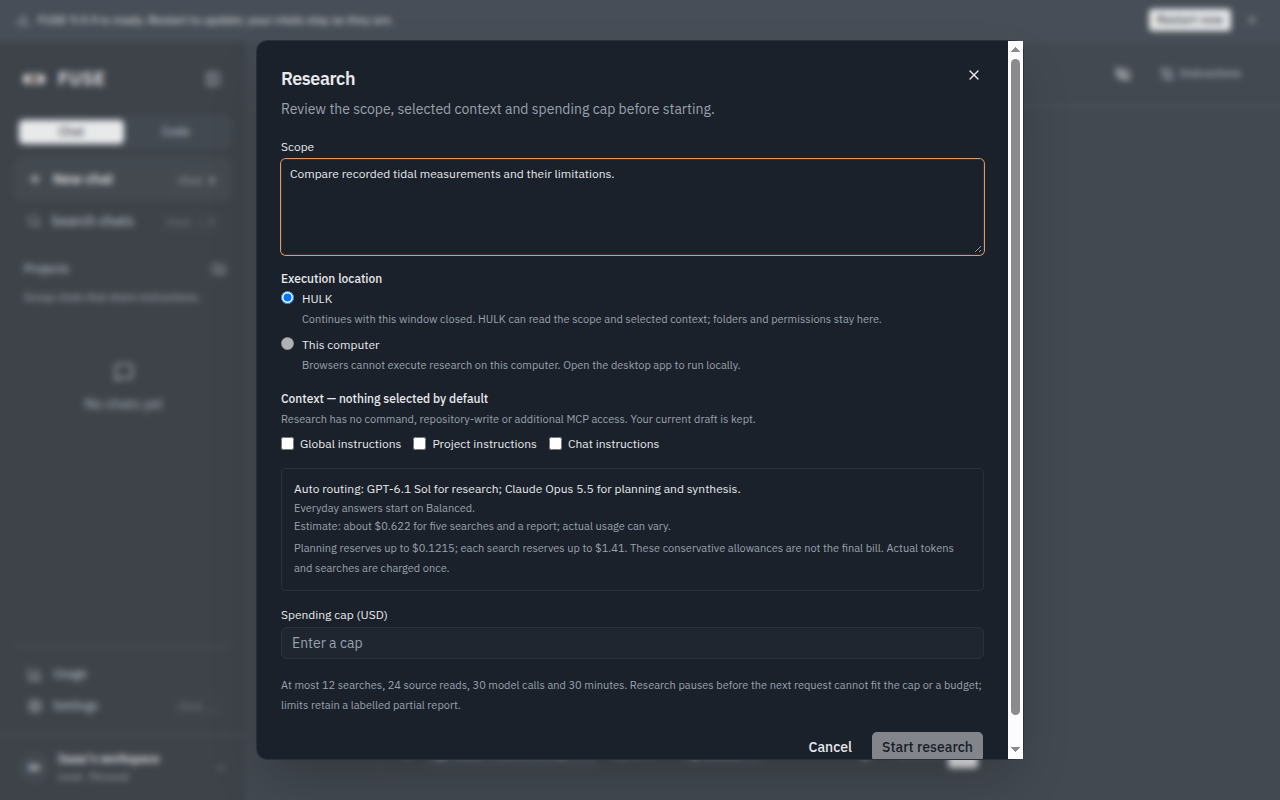
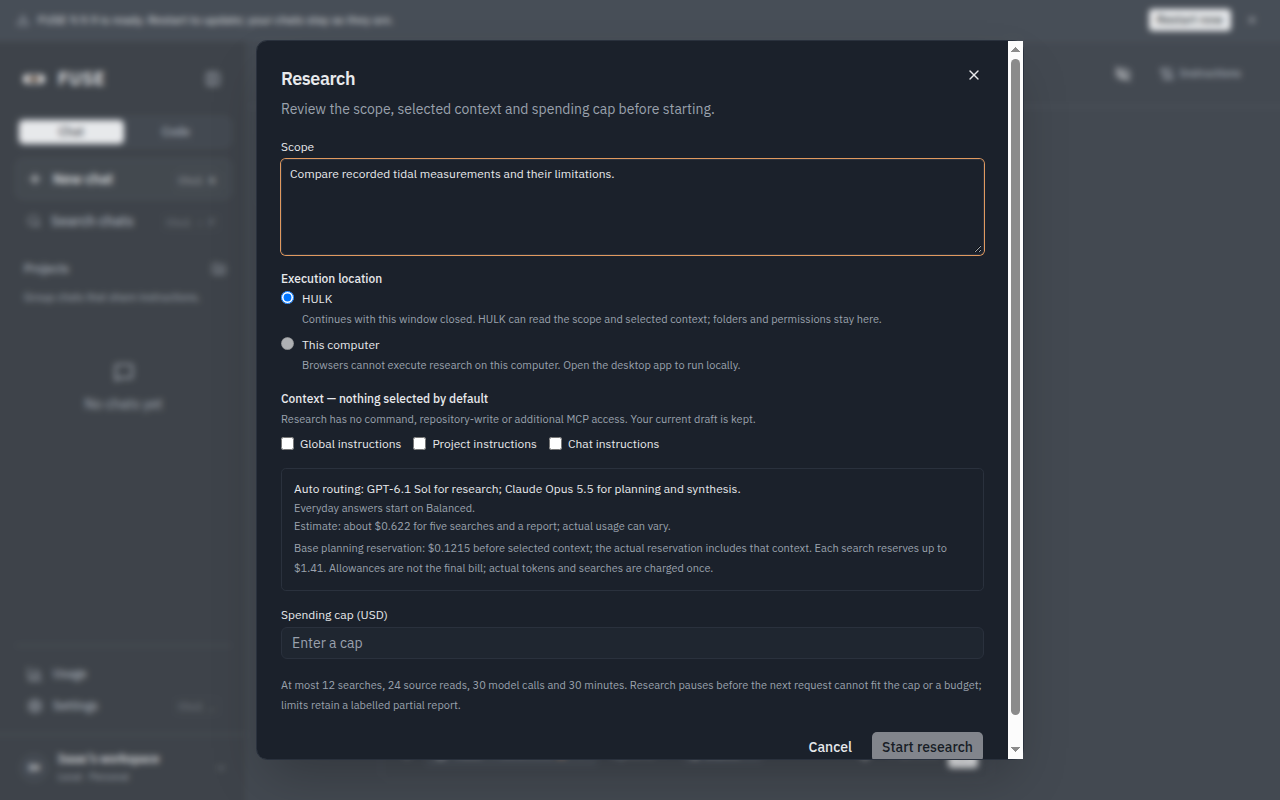
fix(research): validate owner previews and open history links

Changed region(s): [[0.2188, 0.6562, 0.75, 0.7188]]

diff --git a/src/research/useResearch.test.tsx b/src/research/useResearch.test.tsx
@@ -1,0 +1,93 @@
+import { cleanup, fireEvent, render, screen, within } from "@testing-library/react";
+import { defaultCatalog as catalog } from "@/catalog/defaultCatalog";
+import { defaultPolicy as policy } from "@/routing/defaultPolicy";
+import { openTestDb } from "@/storage/testing/nodeDb";
+import { DEFAULT_TENANT as tenant } from "@/storage/defaults";
+import { setEgressRule } from "@/storage/egress";
+import type { SqlValue } from "@/storage/sql";
+import type { HulkApi, HulkStatus } from "@/handover/api";
+import { useResearch } from "./useResearch";
+import { researchModels } from "./routing";
+
+afterEach(cleanup);
+test("HULK preview respects the execution owner's policy and prefers desktop when hosted search is unavailable", async () => {
+  const db = openTestDb(),
+    owner = openTestDb();
+  await setEgressRule(owner, tenant, null, "anthropic", false);
+  const status: HulkStatus = {
+    address: "https://hulk.example",
+    paired: true,
+    mismatch: null,
+    mine: { schema: 66, builtFrom: "fixture", builtOn: "2026-11-05", researchProtocol: 1 },
+    server: { schema: 66, builtFrom: "fixture", builtOn: "2026-11-05", researchProtocol: 1 },
+  };
+  const hulk: HulkApi = {
+    status: () => Promise.resolve(status),
+    pair: () => Promise.reject(new Error("Unused")),
+    unpair: () => Promise.reject(new Error("Unused")),
+    putFile: () => Promise.reject(new Error("Preview cannot upload files")),
+    async invoke<T>(command: string, args: Record<string, unknown> = {}) {
+      let value: unknown;
+      if (command === "key_status") value = { saved: true };
+      else if (command === "db_select" && typeof args.sql === "string")
+        value = await owner.select(args.sql, args.params as SqlValue[]);
+      else throw new Error("Preview cannot dispatch or mutate HULK");
+      return value as T;
+    },
+  };
+  const onError = vi.fn();
+  function Harness() {
+    const research = useResearch({
+      deps: {
+        db,
+        tenant,
+        catalog,
+        adapterFor: () => {
+          throw new Error("Preview cannot call a provider");
+        },
+      },
+      threadId: null,
+      projectId: null,
+      mode: { kind: "auto" },
+      policy,
+      providers: ["openai", "anthropic"],
+      hulk,
+      hulkStatus: status,
+      web: false,
+      incognito: false,
+      onChanged: vi.fn(),
+      onSelect: vi.fn(),
+      onError,
+    });
+    return (
+      <>
+        <button
+          onClick={() => {
+            research.open("Compare tide measurements");
+          }}
+        >
+          Open research
+        </button>
+        {research.dialogs}
+      </>
+    );
+  }
+  render(<Harness />);
+  fireEvent.click(screen.getByRole("button", { name: "Open research" }));
+  let dialog = within(await screen.findByRole("dialog", { name: "Research" }));
+  expect(dialog.getByRole("radio", { name: /^HULK/ })).toBeChecked();
+  const expected = researchModels(catalog, policy, { kind: "auto" }, "Compare tide measurements", [
+    "openai",
+  ]);
+  expect(dialog.getByText(/Auto routing:/)).toHaveTextContent(expected.best.displayName);
+  fireEvent.click(dialog.getByRole("button", { name: "Cancel" }));
+  await setEgressRule(owner, tenant, null, "anthropic", null);
+  await setEgressRule(owner, tenant, null, "openai", false);
+  fireEvent.click(screen.getByRole("button", { name: "Open research" }));
+  dialog = within(await screen.findByRole("dialog", { name: "Research" }));
+  expect(dialog.getByRole("radio", { name: /^HULK/ })).toBeDisabled();
+  expect(dialog.getByRole("radio", { name: /^This computer/ })).toBeChecked();
+  expect(await owner.select("SELECT id FROM run_requests")).toEqual([]);
+  expect(await owner.select("SELECT id FROM request_log")).toEqual([]);
+  expect(onError).not.toHaveBeenCalled();
+});

diff --git a/src/app/ChatApp.tsx b/src/app/ChatApp.tsx
@@ -855,6 +855,10 @@ export function ChatApp({
   // M10 step 12 (CH-19): Chat or Code; each area reopens on its own last thread.
   const [area, setArea] = useState<Area>(readArea);
   const [lastThread] = useState(() => readLastThread(readArea()));
+  // A HULK history link selects an existing Chat only; it cannot enqueue or resume execution.
+  const [linkedThread] = useState(() =>
+    webApp ? new URLSearchParams(window.location.search).get("thread") : null,
+  );
   // The path on screen (CH-04), every message in the thread, and where the path has siblings.
   const [messages, setMessages] = useState<Message[]>([]);
   const [threadAll, setThreadAll] = useState<Message[]>([]);
@@ -1680,8 +1684,10 @@ export function ChatApp({
       .then(async (list) => {
         setThreadList({ threads: list, at: Date.now() });
         setLatestRuns(await latestRunByThread(db, tenant));
-        // Reopen on the thread that was open last time, if it still exists.
-        const last = lastThread ? list.find((t) => t.id === lastThread) : undefined;
+        // An authenticated history link wins; an unavailable/deleted ID falls back safely.
+        const last =
+          (linkedThread ? list.find((t) => t.id === linkedThread) : undefined) ??
+          (lastThread ? list.find((t) => t.id === lastThread) : undefined);
         if (!last) return;
         const { rows, all, attached, cited, used, upto, fromFiles, artifacts } = await loadThread(
           last.id,
@@ -1691,8 +1697,8 @@ export function ChatApp({
         setArea(areaOf(last.kind));
         setThreadArtifacts(artifacts);
         setThreadFileSources(fromFiles);
-        setSelectedId(lastThread);
-        selectedRef.current = lastThread;
+        setSelectedId(last.id);
+        selectedRef.current = last.id;
         setMessages(rows);
         setSummaryUpto(upto);
         setThreadAll(all);
@@ -1702,7 +1708,7 @@ export function ChatApp({
         setThreadMemories(used);
       })
       .catch(report);
-  }, [db, tenant, catalog, lastThread, loadThread, appBuild, backups]);
+  }, [db, tenant, catalog, lastThread, linkedThread, loadThread, appBuild, backups]);
   useEffect(() => {
     if (selectedId === null) return;
     const kind = threads.find((t) => t.id === selectedId)?.kind;

diff --git a/src/ui/Research.test.tsx b/src/ui/Research.test.tsx
@@ -1,5 +1,5 @@
 import { fireEvent, render, screen } from "@testing-library/react";
-import { parseResearchCap } from "@/research/cap";
+import { parseResearchCap, formatResearchCap } from "@/research/cap";
 import { ResearchSetup, ContinueResearch } from "./Research";
 import { defaultCatalog } from "@/catalog/defaultCatalog";
 import { defaultPolicy } from "@/routing/defaultPolicy";
@@ -27,6 +27,9 @@ test("research setup requires an empty cap to be filled and starts only through 
   expect(screen.getByLabelText("Research spending cap (USD)")).toHaveValue("");
   expect(screen.getByRole("button", { name: "Start research" })).toBeDisabled();
   expect(screen.getByLabelText("Memory: chosen fact")).not.toBeChecked();
+  expect(screen.getByText(/Base planning reservation/)).toHaveTextContent(
+    "before selected context",
+  );
   expect(onStart).not.toHaveBeenCalled();
   fireEvent.click(screen.getByLabelText("Memory: chosen fact"));
   fireEvent.change(screen.getByLabelText("Research spending cap (USD)"), {
@@ -88,6 +91,10 @@ test("continuation uses an explicit total cap without adding a default increment
 test("caps preserve integer micro-dollars and reject empty, fractional-micro and excessive values", () => {
   expect(parseResearchCap("0.000001")).toBe(1);
   expect(parseResearchCap("9007199254.740991")).toBe(Number.MAX_SAFE_INTEGER);
+  expect(formatResearchCap(Number.MAX_SAFE_INTEGER)).toBe("9007199254.740991");
+  expect(parseResearchCap(formatResearchCap(Number.MAX_SAFE_INTEGER))).toBe(
+    Number.MAX_SAFE_INTEGER,
+  );
   for (const value of ["", "0", "0.0000001", "9007199254.740992", "1e4", "9".repeat(10000)])
     expect(parseResearchCap(value)).toBeNull();
 });

diff --git a/src/App.webRuns.test.tsx b/src/App.webRuns.test.tsx
@@ -128,6 +128,43 @@ beforeEach(() => {
 });
 afterEach(cleanup);
 
+test("a HULK research history link selects its existing Chat without starting or resuming execution", async () => {
+  const db = openTestDb();
+  const previous = await createThread(db, t, "Previous Chat"),
+    linked = await createThread(db, t, "Linked research Chat");
+  const messageId = await addMessage(db, t, {
+    threadId: linked.id,
+    parentId: null,
+    role: "assistant",
+    content: "Previously collected research evidence.",
+  });
+  const run = await createRun(db, t, {
+    threadId: linked.id,
+    projectId: null,
+    messageId,
+    task: "Existing research",
+    kind: "research",
+    provider: "openai",
+    model: "fixture",
+    mode: "plan",
+    capMicroUsd: 1000000,
+  });
+  await setRunStatus(db, t, run.id, "paused", "Explicit continuation required.");
+  localStorage.setItem("fuse.lastThread.chat", previous.id);
+  window.history.replaceState({}, "", `/?thread=${encodeURIComponent(linked.id)}`);
+  try {
+    start(db);
+    expect(await screen.findByText("Previously collected research evidence.")).toBeInTheDocument();
+    expect(await db.select("SELECT id FROM run_requests")).toEqual([]);
+    expect(await db.select("SELECT id FROM request_log")).toEqual([]);
+    expect(await db.select("SELECT status FROM runs WHERE id=?", [run.id])).toEqual([
+      { status: "paused" },
+    ]);
+  } finally {
+    window.history.replaceState({}, "", "/");
+  }
+});
+
 test("a Code run in the web app is asked of the runner; its question is answered here, and Stop asks it to stop", async () => {
   const db = openTestDb();
   const user = start(db);

diff --git a/src/ui/Research.tsx b/src/ui/Research.tsx
@@ -1,4 +1,4 @@
-import { parseResearchCap } from "@/research/cap";
+import { parseResearchCap, formatResearchCap } from "@/research/cap";
 import { useState } from "react";
 import { Button } from "@/components/ui/button";
 import { Input } from "@/components/ui/input";
@@ -191,9 +191,10 @@ export function ResearchSetup({
               actual usage can vary.
             </p>
             <p className="text-[11px] leading-5 text-muted-foreground">
-              Planning reserves up to {money(models.firstBoundMicroUsd)}; each search reserves up to{" "}
-              {money(models.searchBoundMicroUsd)}. These conservative allowances are not the final
-              bill. Actual tokens and searches are charged once.
+              Base planning reservation: {money(models.firstBoundMicroUsd)} before selected context;
+              the actual reservation includes that context. Each search reserves up to{" "}
+              {money(models.searchBoundMicroUsd)}. Allowances are not the final bill; actual tokens
+              and searches are charged once.
             </p>
           </div>
         )}
@@ -354,7 +355,7 @@ export function ContinueResearch({
   onCancel: () => void;
   onContinue: (capMicroUsd: number) => void;
 }) {
-  const [value, setValue] = useState(String(capMicroUsd / 1e6)),
+  const [value, setValue] = useState(formatResearchCap(capMicroUsd)),
     amount = parseResearchCap(value);
   return (
     <Modal

diff --git a/src/research/useResearch.tsx b/src/research/useResearch.tsx
@@ -315,11 +315,16 @@ export function useResearch(options: Options) {
           }
           if (!hulkReason) {
             const stored = await storedRouting(hulkDb(hulk), deps.tenant, projectId);
+            const ownerPolicy = await projectPolicy(hulkDb(hulk), deps.tenant, projectId);
             hulkCatalog = stored.catalog;
             hulkPolicy = stored.policy;
             for (const provider of ["openai", "anthropic"] as const) {
               const state = await hulk.invoke<{ saved: boolean }>("key_status", { provider });
-              if (state.saved && egressRefusal(policy, provider, "chat") === null)
+              if (
+                state.saved &&
+                egressRefusal(policy, provider, "chat") === null &&
+                egressRefusal(ownerPolicy, provider, "chat") === null
+              )
                 hulkProviders.push(provider);
             }
             try {

diff --git a/src/research/cap.ts b/src/research/cap.ts
@@ -6,3 +6,10 @@ export function parseResearchCap(value: string): number | null {
   const amount = BigInt(whole) * 1_000_000n + BigInt(fraction.padEnd(6, "0"));
   return amount > 0n && amount <= BigInt(Number.MAX_SAFE_INTEGER) ? Number(amount) : null;
 }
+
+export function formatResearchCap(value: number): string {
+  if (!Number.isSafeInteger(value) || value <= 0) return "";
+  const amount = BigInt(value),
+    fraction = (amount % 1_000_000n).toString().padStart(6, "0").replace(/0+$/, "");
+  return `${String(amount / 1_000_000n)}${fraction ? `.${fraction}` : ""}`;
+}

diff --git a/e2e/checklist.e2e.ts b/e2e/checklist.e2e.ts
@@ -315,6 +315,7 @@ test("9. Research requires a cap and finishes in Chat without a folder or sendin
     await app.type(composer, "Keep this editable research draft.");
     await app.click(button("Options"));
     await app.click('//button[@aria-label="Research"]');
+    await app.find('//input[@aria-label="Research spending cap (USD)"]');
     expect(
       await app.run(
         'return [...document.querySelectorAll("input")].find(e=>e.getAttribute("aria-label")==="Research spending cap (USD)").value;',

diff --git a/docs/milestones/M14-deep-research.md b/docs/milestones/M14-deep-research.md
@@ -256,8 +256,22 @@ The browser check found and fixed loss of the editable draft when creating a new
 Chat. The first full-check attempt also identified the missing TypeScript project inclusion
 for the separate fixture Vite config; its project inclusion was corrected before rerunning.
 
-Final local `VITEST_MAX_WORKERS=2 pnpm check` passed: 188 files / 1,090 tests passed,
+Final local `VITEST_MAX_WORKERS=2 pnpm check` passed: 189 files / 1,092 tests passed,
 13 live/manual tests skipped across eight files. Lint, formatting, typecheck and secret scan
 passed. Default/server clippy with warnings denied passed, as did all 169 desktop and 183
 server Rust tests. Production browser regression passed 10/10. Current-head CI, including
 the new Windows Research click-through, remains the required merge gate.
+
+Further review added read-only authenticated Chat links for Open on HULK, with a regression
+asserting that opening paused history enqueues nothing. HULK previews intersect its provider
+restrictions with the source's; if bounded search is unavailable there, desktop is preferred
+explicitly. Continuation preserves the exact micro-dollar cap even at the safe-integer limit.
+Setup qualifies the base planning allowance before selected context. The final native and
+browser screenshots were refreshed and reviewed, and production web/runner builds, web 10/10
+and synthetic dictation 1/1 passed again.
+
+The first CI attempt found a missing final newline in copied benchmark JSON; formatting fixed
+it without changing results. The next attempt passed four gates but caught the Windows fixture
+reading setup before the cap field loaded. The fixture now waits for that field. Failed-run
+screenshots/logs were retained for diagnosis. All five gates must pass on the final current
+commit before merge; no failed or superseded attempt counts as acceptance.
